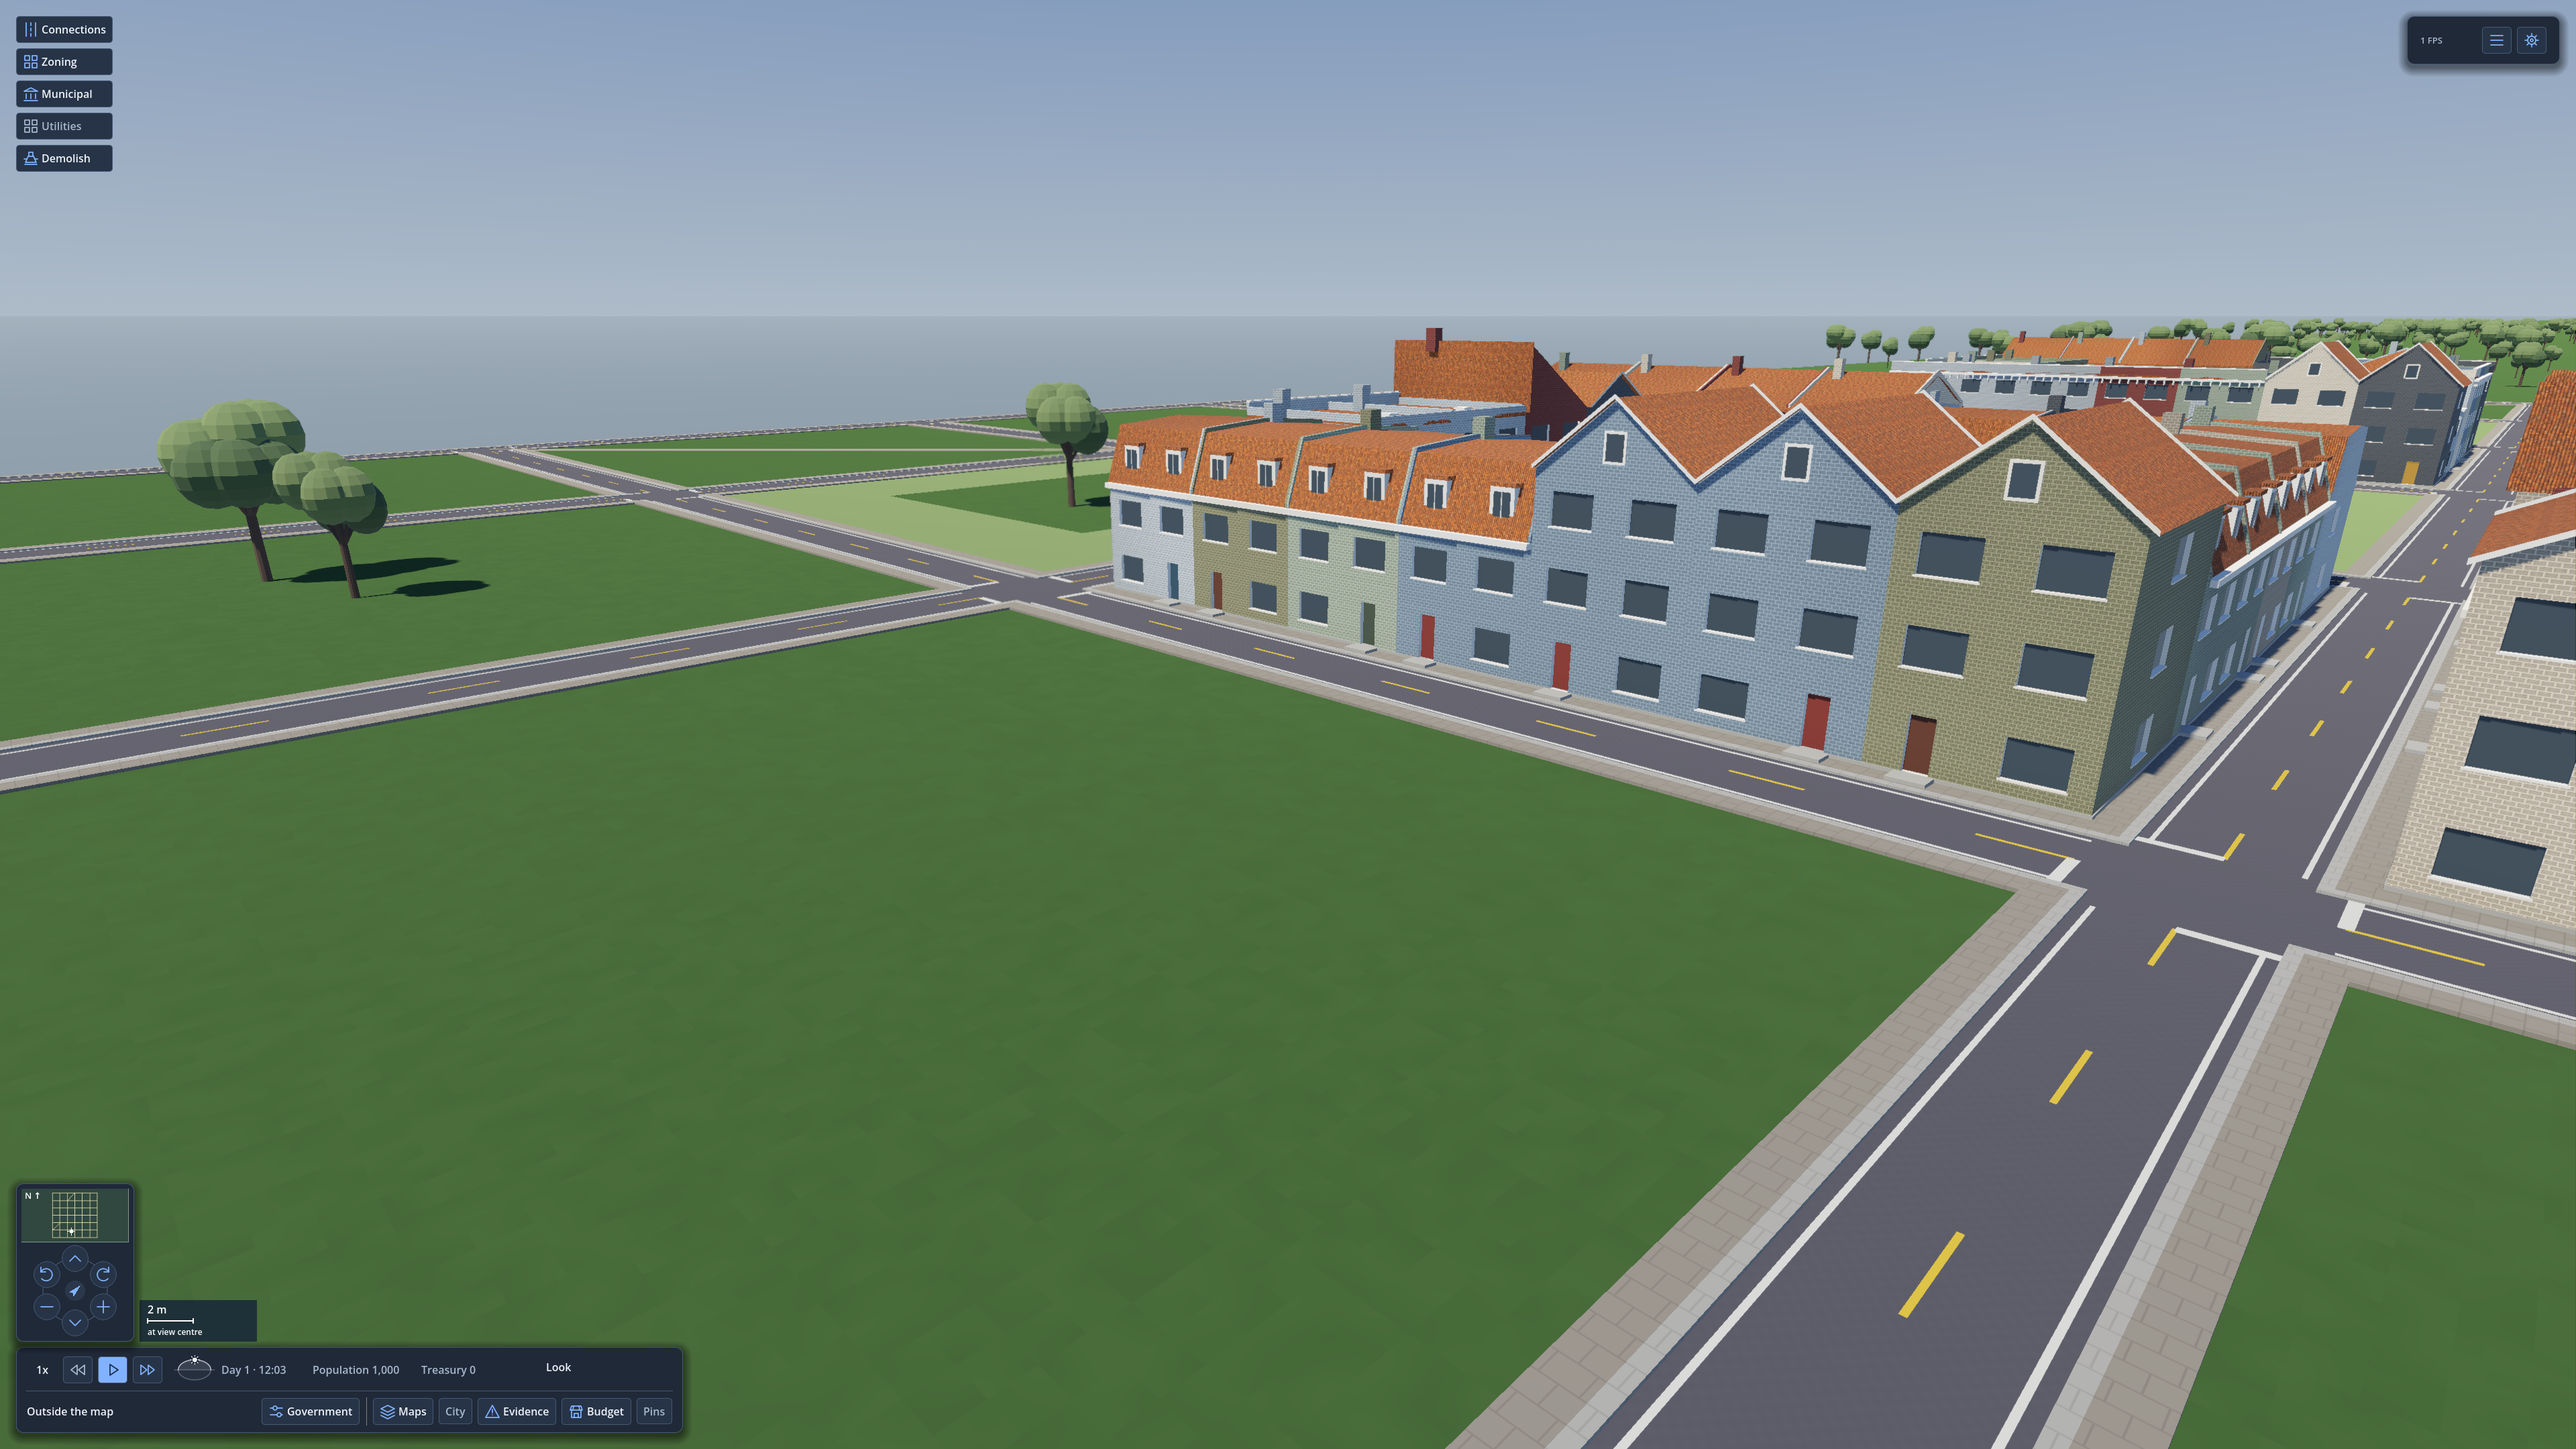
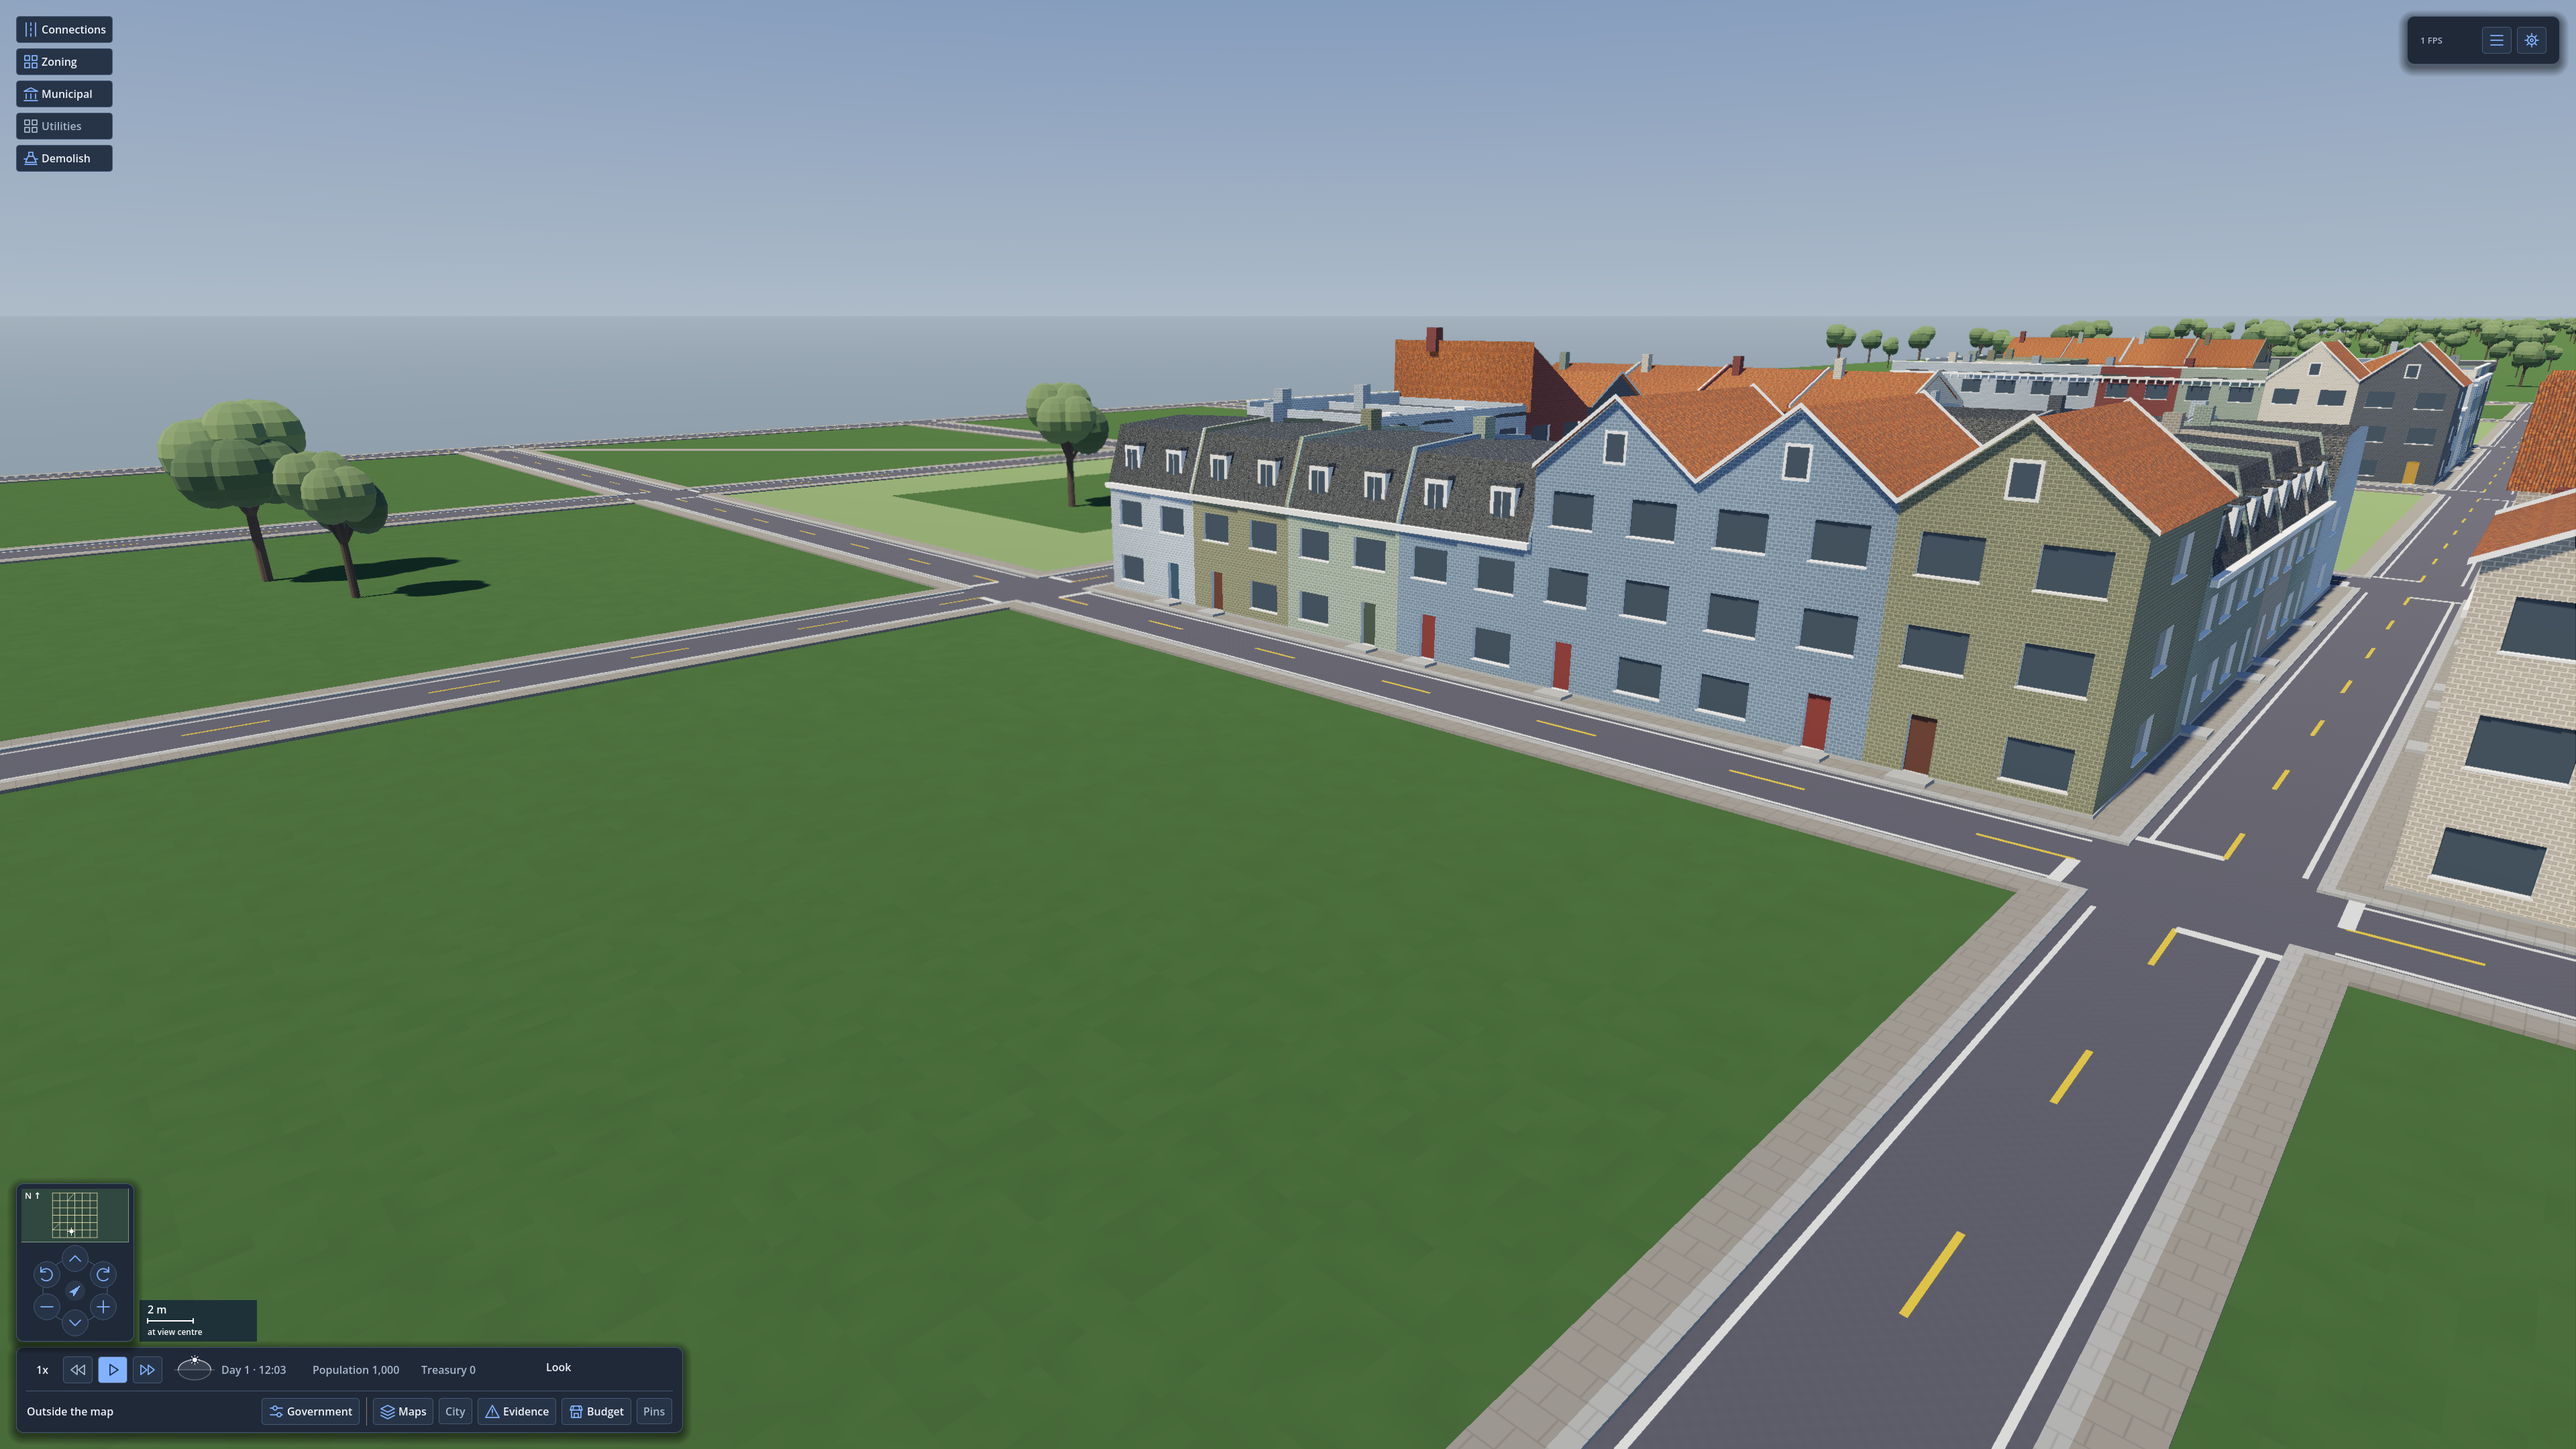
Roof mansards in slate and parapet decks in asphalt
The mansard rowhouse family now uses ambientCG Roofing Tiles 003 slate
in place of clay tile, which hid its outline from the game camera. The
parapet deck is a membrane part in Poly Haven Clean Asphalt, so it no
longer draws clay tile on a flat roof. Coping and cornice keep the trim
paint. Both textures are CC0 and fetched through materials.py.

The Appearance tests pass (446). The full simulation lane was skipped at
the user's request, because no simulation code changed.

diff --git a/scripts/art/rowhouse-forms.py b/scripts/art/rowhouse-forms.py
@@ -28,6 +28,10 @@ sys.argv = _argv
 ts, S = hf.ts, hf.S
 import bpy
 
+for _name, _metres in (('roofing-tiles-003', [2.4, 2.4]), ('clean-asphalt', [2.1, 2.1])):
+    ts.SURFACES[_name] = {'metres': _metres, 'mean': None,
+                          'maps': {k: hf.LIB / f'{_name}-{k}.jpg' for k in ('albedo', 'normal', 'roughness')}}
+
 E = .35
 FREE = .3
 BAY = 3.5
@@ -237,7 +241,7 @@ def parapet(h):
     doors = walls(h)
     ts.box('parapet', (x0, y0, H), (x1, y0 + .25, top), wall)
     ts.box('back parapet', (x0, y1 - .25, H), (x1, y1, H + .5), s['end'])
-    ts.box('roof deck', (x0, y0, H - .2), (x1, y1, H + .05), hf.flat('4f4d4a'))
+    ts.box('roof deck', (x0, y0, H - .2), (x1, y1, H + .05), hf.textured('clean-asphalt'))
     for attached, x, inward in ((h['left'], x0, 1), (h['right'], x1, -1)):
         a, b = sorted((x, x + inward * (.15 if attached else .25)))
         ts.box('side parapet', (a, y0, H), (b, y1, H + (.6 if attached else .5)), s['end'])
@@ -255,6 +259,7 @@ def mansard(h):
     """Two storeys of wall and the third inside a mansard, lit by a dormer a bay."""
     x0, x1, y0, y1 = h['x0'], h['x1'], h['y0'], h['y1']
     s = h['s']
+    ts.materials['roof'] = ts.materials[hf.textured('roofing-tiles-003')]
     H2 = (h['storeys'] - 1) * S
     Ht, k, cy = H2 + S, 1.1, (y0 + y1) / 2
     crown = Ht + .35

diff --git a/src/Borough.Appearance/FamilyBodyBuilder.Terrace.cs b/src/Borough.Appearance/FamilyBodyBuilder.Terrace.cs
@@ -165,7 +165,7 @@ public static partial class FamilyBodyBuilder
     private static void ParapetRoof(Writer w, FamilyBody body, float x, float y, float height, AttachedSides attached)
     {
         float top = height + TerraceParapetMetres;
-        w.Box(new Vector3(-x, -y, height - .2f), new Vector3(x, y, height + .05f), "roof");
+        w.Box(new Vector3(-x, -y, height - .2f), new Vector3(x, y, height + .05f), "membrane");
         w.Box(new Vector3(-x, -y, height), new Vector3(x, -y + .25f, top), "wall");
         w.Box(new Vector3(-x, y - .25f, height), new Vector3(x, y, height + .5f), "wall");
         foreach ((float side, bool shared) in (ReadOnlySpan<(float, bool)>)[(-x, attached.HasFlag(AttachedSides.Left)), (x, attached.HasFlag(AttachedSides.Right))])

diff --git a/plans/appearance-families.md b/plans/appearance-families.md
@@ -80,6 +80,11 @@ side gable, parapet, mansard, front gable, paired gable and bay front. Each form
 `pitch_degrees` (`FamilyBodyBuilder.Terrace.cs`, `scripts/art/rowhouse-forms.py`). Paired gable
 admits frontages up to 11 m, so the 12 m band draws five forms.
 
+Every form keeps Painted Bricks 088 walls and the shared paints. Pitched forms keep Clay Roof Tiles
+02. The mansard roofs in Roofing Tiles 003 slate. The parapet deck is a `membrane` part in Clean
+Asphalt, and its coping and cornice keep the trim paint. The user chose these on October 25, 2026
+from Blender renders over flat paint, bitumen, asphalt and cast-stone alternatives.
+
 Attached houses stand in terraces. The preset's `terrace_houses = [3, 6]` gives a terrace's length
 in Lots, drawn once per face and era. A terrace shares its family and pitch, each house draws its
 own paint, and odd houses lay their bays from the right. An even terrace takes its first-ranked
